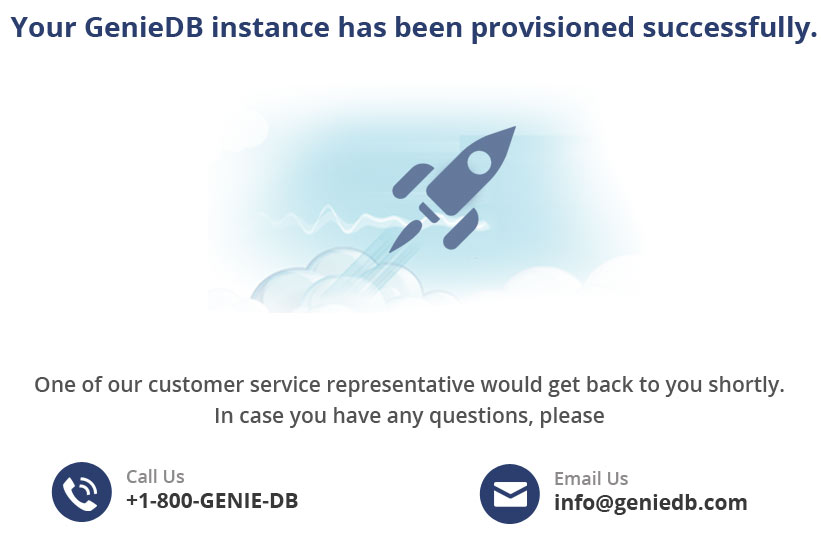
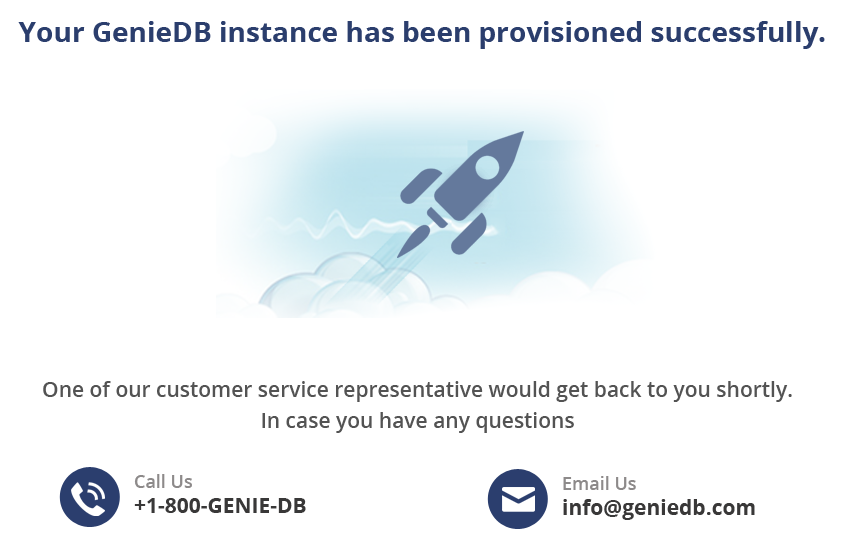
Replaced thankyou_image, added link to create new instance at thankyou page and changes after review

diff --git a/app/assets/stylesheets/application.less b/app/assets/stylesheets/application.less
@@ -446,3 +446,19 @@ select#db_instance_daily_backup_duration{
 .thank_you{
 	text-align:center;
 }
+.radio input[type="radio"], .checkbox input[type="checkbox"]{
+	float: left;
+	margin-left: -20px;
+}
+.radio input[type="radio"]{
+	margin-top:3px;
+}
+.new_instance{
+	background: rgb(43, 62, 110);
+	width: 310px;
+	border-radius: 5px;
+	font-size: 18px;
+	padding: 12px 30px;
+	margin: 60px auto 0px;
+	color: white;
+}

diff --git a/app/controllers/db_instances_controller.rb b/app/controllers/db_instances_controller.rb
@@ -46,7 +46,7 @@ class DbInstancesController < ApplicationController
 				render "thanks"
 			end
 		else
-			redirect_to "/new"
+			redirect_to new_db_instance_path
 		end
 	end
 
